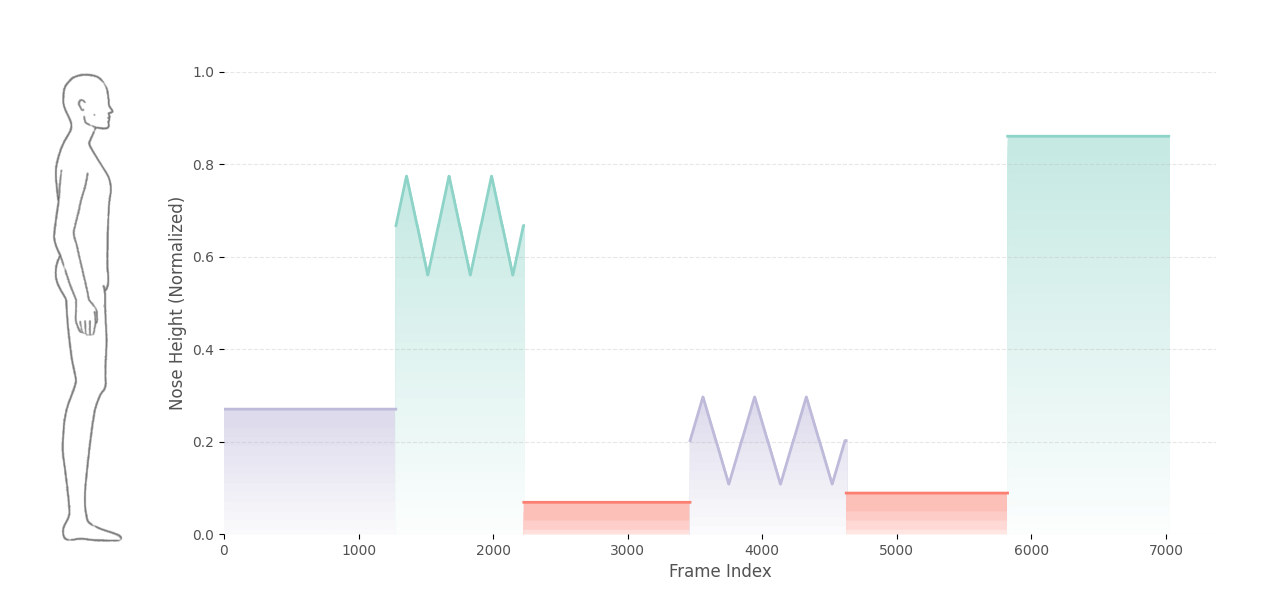
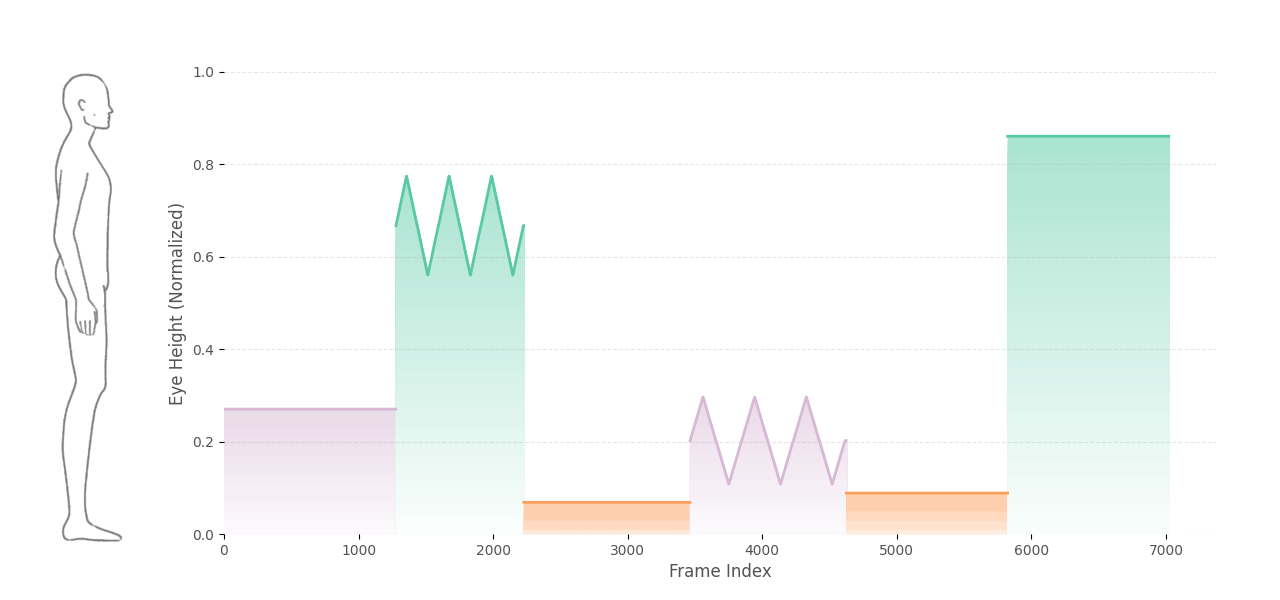
upload

diff --git a/templates/analysis.html b/templates/analysis.html
@@ -115,7 +115,7 @@
                         <div class="flex items-start mb-2">
                             <i class="ri-ruler-line text-primary text-xl mr-2 relative top-[-1px]"></i>
                             <p>
-                                Nose height is shown as a proportion of body height. The silhouette beside the chart serves as a scale, with 1 at the head and 0 at the feet.
+                                Eye height is shown as a proportion of body height. The silhouette beside the chart serves as a scale, with 1 at the head and 0 at the feet.
                             </p>
                         </div>
                         <img src="/static/images/nose-height-example.png" alt="Nose height example"
@@ -199,7 +199,7 @@
 
                 </div>
                 <model-viewer 
-                    src="{{ url_for('static', filename='images/1.glb') }}"
+                    src="{{ url_for('static', filename='images/bg.png') }}"
                     alt="3D model"
                     auto-rotate
                     camera-controls

diff --git a/app.py b/app.py
@@ -1615,7 +1615,7 @@ def check_status():
     print(response_data)
     
 
-    # time.sleep(10)
+    time.sleep(10)
 
     # 返回 JSON 数据
     return jsonify(response_data)
